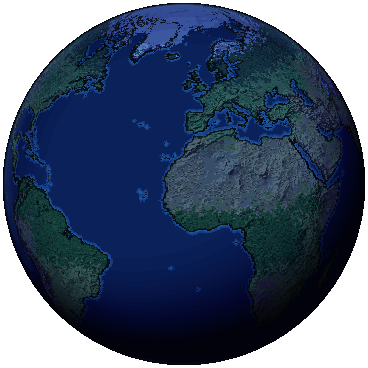
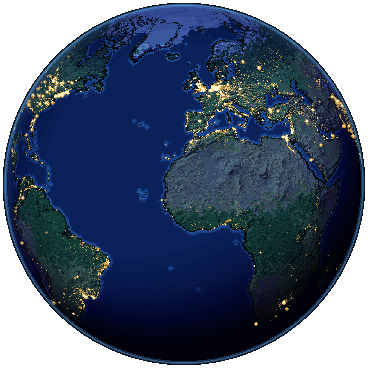
Proyecto Tierra: la foto quieta de noche con luces y brillo, sin aurora

diff --git a/src/scripts/tierra-gl.js b/src/scripts/tierra-gl.js
@@ -623,7 +623,7 @@ function filas(lat0, lon0) {
  * @param {HTMLCanvasElement} canvas
  * @param {{ base?: string, lat0?: number, lon0?: number, radio?: number, vuelta?: number,
  *   disco?: () => number, alPintar?: () => void, zoomMax?: number,
- *   banderas?: string[] | null, pausado?: () => boolean, noche?: boolean, sinNubes?: boolean,
+ *   banderas?: string[] | null, pausado?: () => boolean, noche?: boolean, sinNubes?: boolean, sinAurora?: boolean,
  *   ladoAtlas?: number }} [opciones]
  */
 export async function montarTierraGL(canvas, {
@@ -638,6 +638,7 @@ export async function montarTierraGL(canvas, {
   pausado = () => false,                         // no gira mientras dé true (en la portada: ratón sobre una chapa o una nave)
   noche: nocheIni = false,                       // a la luz de la luna (el tema oscuro); se cambia con ponNoche
   sinNubes = false,                              // sin nubes (la foto de tierra-quieto.png)
+  sinAurora = false,                             // sin aurora (ídem: se mueve y se enciende al anochecer)
   ladoAtlas = 8,                                 // huecos por lado del atlas de teselas
   zoomMax = 6,                                   // como Marte y la Luna (usuario, 24-sep-2026: "¿sería posible un x5 o x6?")
 } = {}) {
@@ -1057,7 +1058,7 @@ export async function montarTierraGL(canvas, {
       gl.disable(gl.BLEND);
     }
     // (1e) aurora, de noche
-    const conAurora = L === LUZ.noche && aurora !== null;
+    const conAurora = L === LUZ.noche && aurora !== null && !sinAurora;
     if (conAurora) {
       if (aurora.w !== W || aurora.h !== H) {
         aurora.w = W; aurora.h = H;

diff --git a/src/styles/global.css b/src/styles/global.css
@@ -228,12 +228,12 @@ html.home:not(.scrolled) #theme-button:is(:hover, :focus-visible) .tema-icono :i
   width: var(--tierra-caja);
   aspect-ratio: 1;
   transform: translate(-50%, -50%);
-  background: url(/planeta/tierra-quieto.png?v=12) no-repeat 0 0 / 100% 100%;
+  background: url(/planeta/tierra-quieto.png?v=14) no-repeat 0 0 / 100% 100%;
   image-rendering: pixelated;
   pointer-events: none;
   z-index: 0;
 }
-html.dark .hero-planet { background-image: url(/planeta/tierra-quieto-noche.png?v=12); }
+html.dark .hero-planet { background-image: url(/planeta/tierra-quieto-noche.png?v=14); }
 .hero-planet.planeta-listo { visibility: hidden; }
 .hero-tierra {
   position: absolute;

diff --git a/src/scripts/planeta.js b/src/scripts/planeta.js
@@ -19,7 +19,7 @@
 
 // Subir al regenerar public/planeta/ (cache-busting: los archivos se llaman
 // siempre igual).
-export const PLANETA_V = 13;
+export const PLANETA_V = 14;
 
 const cargas = new Map();              // base -> Promise de datos preparados (una vez por página)
 const cargasNoche = new Map();         // base -> Promise de la LUT de noche y las luces

diff --git a/logo-files/TIERRA-WIP.md b/logo-files/TIERRA-WIP.md
@@ -5,7 +5,43 @@ paso: qué está hecho, qué no, qué está decidido y qué queda pendiente. Ley
 solo esto hay que poder retomarlo. El detalle del planeta de antes (horizonte
 de la portada, noche, nubes, chapas) sigue en `HERO-WIP.md`.
 
-## Dónde estamos (26-sep-2026, al cerrar la sesión)
+## Dónde estamos (26-sep-2026, sesión de mediodía)
+
+- Rama **`earth-project`**, commiteada en local con el 7.5 y **sin subir**
+  (GitHub va hasta `6fa1c07`; sin fusionar: no publica nada). Nada sin
+  commitear. En el otro ordenador: `git fetch` y
+  `git switch earth-project` (o `git pull` si ya está).
+- **Hecho**: pasos 1-6, el 6b (zoom: nieve, nombres, Bab el-Mandeb) y el 7
+  (noche) entero: 7.1 luces, 7.2 brillo de atmósfera, 7.3 aurora, 7.4 X
+  verde y 7.5 foto quieta de noche.
+- **7.5 Foto quieta de noche (26-sep-2026, commiteada)**: el usuario vio
+  que al volver a la Tierra desde la Luna "aparece apagada" (era la foto del
+  24-sep, sin luces ni brillo). Rehechas con
+  `node logo-files/generar-tierra-quieto.mjs`: la de día sale idéntica, la
+  de noche ya lleva luces y brillo. **Sin aurora** (como sin nubes: se mueve
+  y se enciende al anochecer; con la espera de 2 s del script salía a medio
+  encender): opción nueva `sinAurora` en `montarTierraGL` (`tierra-gl.js`),
+  que usa el script. `PLANETA_V` 13 → 14 y los `?v=` de `tierra-quieto*.png`
+  en `global.css` (estaban en 12) → 14. Enseñada la comparación antes/ahora.
+- **Lo que queda**, por este orden:
+  1. Push de la rama (orden suya).
+  2. **Paso 8: probar en Zen y en el móvil** lo que es nuevo en la GPU
+     (luces: un punto por ciudad, 34.091; aurora: hasta ~340.000 puntos a
+     x6): consumo y temperatura como dice la memoria
+     `zodk-web-medir-rendimiento` (el usuario mide en su portátil); si pesa,
+     menos puntos de aurora a x6 (`F` hasta 4 en `pintaCon`) o menos fps.
+  3. **Fusionar `earth-project` en `main`** y publicar, cuando dé el visto
+     bueno (commit y push son órdenes suyas, por separado).
+  - Opcional, ofrecido y sin decidir: que la vista de lejos (zoom < x3,6)
+    también neve los Pirineos con el relieve fino (hoy solo el zoom).
+  - Los nombres de la Tierra "se irán puliendo con el tiempo" (usuario).
+- Para ver cosas sin ventana: el script de capturas de las sesiones del
+  25 y 26-sep abría la portada del servidor de desarrollo en un Chrome sin
+  ventana y movía el globo con un `window.__tierra` temporal en
+  `index.astro` (solo en desarrollo; quitado en los commits). Las capturas
+  se le enseñan juntas en una página HTML.
+
+## Dónde estábamos (26-sep-2026, al cerrar la sesión de la mañana, histórico)
 
 - Rama **`earth-project`**, **commiteada y subida** a GitHub el
   26-sep-2026 (sin fusionar: no publica nada). En el otro ordenador:
